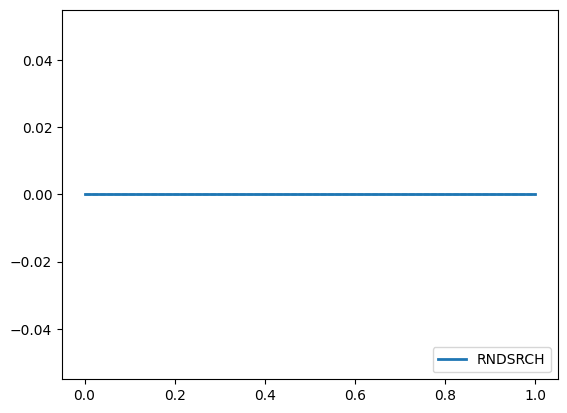
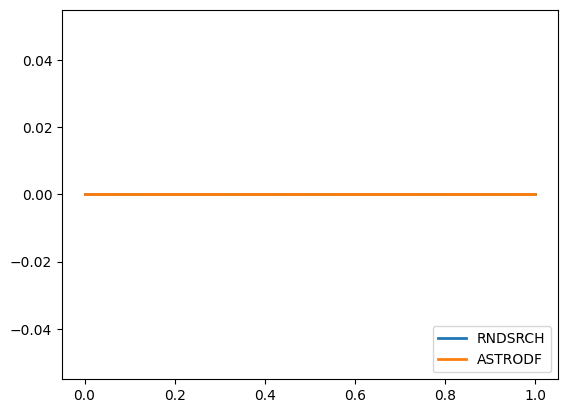
added ability to plot seperately

Changed region(s): [[0.1499, 0.4649, 0.9594, 0.4939], [0.7496, 0.7845, 0.9594, 0.9007]]

diff --git a/simopt/wrapper_base.py b/simopt/wrapper_base.py
@@ -1194,6 +1194,7 @@ def plot_progress_curves(experiments, plot_type, beta=0.50, normalize=True, all_
     """
     # Check if problems are the same with the same x0 and x*.
     check_common_problem_and_reference(experiments)
+    file_list = []
     # Set up plot.
     n_experiments = len(experiments)
     if all_in_one:
@@ -1253,12 +1254,13 @@ def plot_progress_curves(experiments, plot_type, beta=0.50, normalize=True, all_
         plt.legend(handles=solver_curve_handles, labels=[experiment.solver.name for experiment in experiments], loc="upper right")
         if print_max_hw and plot_type != "all":
             report_max_halfwidth(curve_pairs=curve_pairs, normalize=normalize)
-        return save_plot(solver_name="SOLVER SET",
+        return [save_plot(solver_name="SOLVER SET",
                   problem_name=ref_experiment.problem.name,
                   plot_type=plot_type,
                   normalize=normalize
-                  )
+                  )]
     else:  # Plot separately.
+        
         for experiment in experiments:
             setup_plot(plot_type=plot_type,
                        solver_name=experiment.solver.name,
@@ -1303,11 +1305,12 @@ def plot_progress_curves(experiments, plot_type, beta=0.50, normalize=True, all_
                 plot_bootstrap_CIs(bs_CI_lb_curve, bs_CI_ub_curve)
                 if print_max_hw:
                     report_max_halfwidth(curve_pairs=[[bs_CI_lb_curve, bs_CI_ub_curve]], normalize=normalize)
-            return save_plot(solver_name=experiment.solver.name,
+            file_list.append(save_plot(solver_name=experiment.solver.name,
                       problem_name=experiment.problem.name,
                       plot_type=plot_type,
                       normalize=normalize
-                      )
+                      ))
+        return file_list
 
 
 def plot_solvability_cdfs(experiments, solve_tol=0.1, all_in_one=True, plot_CIs=True, print_max_hw=True):
@@ -1327,6 +1330,7 @@ def plot_solvability_cdfs(experiments, solve_tol=0.1, all_in_one=True, plot_CIs=
         print caption with max half-width
     """
     # Check if problems are the same with the same x0 and x*.
+    file_list = []
     check_common_problem_and_reference(experiments)
     # Set up plot.
     n_experiments = len(experiments)
@@ -1362,12 +1366,12 @@ def plot_solvability_cdfs(experiments, solve_tol=0.1, all_in_one=True, plot_CIs=
         plt.legend(handles=solver_curve_handles, labels=[experiment.solver.name for experiment in experiments], loc="lower right")
         if print_max_hw:
             report_max_halfwidth(curve_pairs=curve_pairs, normalize=True)
-        return save_plot(solver_name="SOLVER SET",
+        return [save_plot(solver_name="SOLVER SET",
                   problem_name=ref_experiment.problem.name,
                   plot_type="solve_time_cdf",
                   normalize=True,
                   extra=solve_tol
-                  )
+                  )]
     else:  # Plot separately.
         for experiment in experiments:
             setup_plot(plot_type="solve_time_cdf",
@@ -1389,12 +1393,12 @@ def plot_solvability_cdfs(experiments, solve_tol=0.1, all_in_one=True, plot_CIs=
                 plot_bootstrap_CIs(bs_CI_lb_curve, bs_CI_ub_curve)
                 if print_max_hw:
                     report_max_halfwidth(curve_pairs=[[bs_CI_lb_curve, bs_CI_ub_curve]], normalize=True)
-            return save_plot(solver_name=experiment.solver.name,
+            file_list.append(save_plot(solver_name=experiment.solver.name,
                       problem_name=experiment.problem.name,
                       plot_type="solve_time_cdf",
                       normalize=True,
                       extra=solve_tol
-                      )
+                      ))
 
 
 def plot_area_scatterplots(experiments, all_in_one=True, plot_CIs=True, print_max_hw=True):
@@ -1465,12 +1469,13 @@ def plot_area_scatterplots(experiments, all_in_one=True, plot_CIs=True, print_ma
                     handle = plt.scatter(x=mean_estimator, y=std_dev_estimator, color=color_str, marker=marker_str)
             solver_curve_handles.append(handle)
         plt.legend(handles=solver_curve_handles, labels=solver_names, loc="upper right")
-        return save_plot(solver_name="SOLVER SET",
+        return [save_plot(solver_name="SOLVER SET",
                   problem_name="PROBLEM SET",
                   plot_type="area_scatterplot",
                   normalize=True
-                  )
+                  )]
     else:
+        file_list = []
         for solver_idx in range(n_solvers):
             ref_experiment = experiments[solver_idx][0]
             setup_plot(plot_type="area",
@@ -1513,11 +1518,11 @@ def plot_area_scatterplots(experiments, all_in_one=True, plot_CIs=True, print_ma
                                           )
                 else:
                     handle = plt.scatter(x=mean_estimator, y=std_dev_estimator, color="C0", marker="o")
-            return save_plot(solver_name=experiment.solver.name,
+            file_list.append(save_plot(solver_name=experiment.solver.name,
                       problem_name="PROBLEM SET",
                       plot_type="area_scatterplot",
                       normalize=True
-                      )
+                      ))
 
 
 def plot_solvability_profiles(experiments, plot_type, all_in_one=True, plot_CIs=True, print_max_hw=True, solve_tol=0.1, beta=0.5, ref_solver=None):
@@ -1612,20 +1617,20 @@ def plot_solvability_profiles(experiments, plot_type, all_in_one=True, plot_CIs=
 
         if plot_type == "cdf_solvability":
             plt.legend(handles=solver_curve_handles, labels=solver_names, loc="lower right")
-            return save_plot(solver_name="SOLVER SET",
+            return [save_plot(solver_name="SOLVER SET",
                       problem_name="PROBLEM SET",
                       plot_type=plot_type,
                       normalize=True,
                       extra=solve_tol
-                      )
+                      )]
         elif plot_type == "quantile_solvability":
             plt.legend(handles=solver_curve_handles, labels=solver_names, loc="lower right")
-            return save_plot(solver_name="SOLVER SET",
+            return [save_plot(solver_name="SOLVER SET",
                       problem_name="PROBLEM SET",
                       plot_type=plot_type,
                       normalize=True,
                       extra=[solve_tol, beta]
-                      )
+                      )]
         elif plot_type in {"diff_cdf_solvability", "diff_quantile_solvability"}:
             print(solver_names)
             non_ref_solvers = [solver_name for solver_name in solver_names if solver_name != ref_solver]
@@ -1651,20 +1656,21 @@ def plot_solvability_profiles(experiments, plot_type, all_in_one=True, plot_CIs=
             offset_labels = [f"{non_ref_solver} - {ref_solver}" for non_ref_solver in non_ref_solvers]
             plt.legend(handles=solver_curve_handles, labels=offset_labels, loc="lower right")
             if plot_type == "diff_cdf_solvability":
-                return save_plot(solver_name="SOLVER SET",
+                return [save_plot(solver_name="SOLVER SET",
                           problem_name="PROBLEM SET",
                           plot_type=plot_type,
                           normalize=True,
                           extra=solve_tol
-                          )
+                          )]
             elif plot_type == "diff_quantile_solvability":
-                return save_plot(solver_name="SOLVER SET",
+                return [save_plot(solver_name="SOLVER SET",
                           problem_name="PROBLEM SET",
                           plot_type=plot_type,
                           normalize=True,
                           extra=[solve_tol, beta]
-                          )
+                          )]
     else:
+        file_list = []
         solver_names = [solver_experiments[0].solver.name for solver_experiments in experiments]
         solver_curves = []
         for solver_idx in range(n_solvers):
@@ -1684,18 +1690,18 @@ def plot_solvability_profiles(experiments, plot_type, all_in_one=True, plot_CIs=
             if plot_type in {"cdf_solvability", "quantile_solvability"}:
                 # Set up plot.
                 if plot_type == "cdf_solvability":
-                    return setup_plot(plot_type=plot_type,
+                    file_list.append(setup_plot(plot_type=plot_type,
                                solver_name=experiments[solver_idx][0].solver.name,
                                problem_name="PROBLEM SET",
                                solve_tol=solve_tol
-                               )
+                               ))
                 elif plot_type == "quantile_solvability":
-                    return setup_plot(plot_type=plot_type,
+                    file_list.append(setup_plot(plot_type=plot_type,
                                solver_name=experiments[solver_idx][0].solver.name,
                                problem_name="PROBLEM SET",
                                beta=beta,
                                solve_tol=solve_tol
-                               )
+                               ))
                 handle = solver_curve.plot()
                 if plot_CIs:
                     # Note: "experiments" needs to be a list of list of Experiments.
@@ -1709,37 +1715,37 @@ def plot_solvability_profiles(experiments, plot_type, all_in_one=True, plot_CIs=
                                                                          )
                     plot_bootstrap_CIs(bs_CI_lb_curve, bs_CI_ub_curve)
                 if plot_type == "cdf_solvability":
-                    return save_plot(solver_name=experiments[solver_idx][0].solver.name,
+                    file_list.append(save_plot(solver_name=experiments[solver_idx][0].solver.name,
                               problem_name="PROBLEM SET",
                               plot_type=plot_type,
                               normalize=True,
                               extra=solve_tol
-                              )
+                              ))
                 elif plot_type == "quantile_solvability":
-                    return save_plot(solver_name=experiments[solver_idx][0].solver.name,
+                    file_list.append(save_plot(solver_name=experiments[solver_idx][0].solver.name,
                               problem_name="PROBLEM SET",
                               plot_type=plot_type,
                               normalize=True,
                               extra=[solve_tol, beta]
-                              )
+                              ))
         if plot_type in {"diff_cdf_solvability", "diff_quantile_solvability"}:
             non_ref_solvers = [solver_name for solver_name in solver_names if solver_name != ref_solver]
             ref_solver_idx = solver_names.index(ref_solver)
             for solver_idx in range(n_solvers):
                 if solver_idx is not ref_solver_idx:
                     if plot_type == "diff_cdf_solvability":
-                        return setup_plot(plot_type=plot_type,
+                        file_list.append(setup_plot(plot_type=plot_type,
                                    solver_name=experiments[solver_idx][0].solver.name,
                                    problem_name="PROBLEM SET",
                                    solve_tol=solve_tol
-                                   )
+                                   ))
                     elif plot_type == "diff_quantile_solvability":
-                        return setup_plot(plot_type=plot_type,
+                        file_list.append(setup_plot(plot_type=plot_type,
                                    solver_name=experiments[solver_idx][0].solver.name,
                                    problem_name="PROBLEM SET",
                                    beta=beta,
                                    solve_tol=solve_tol
-                                   )
+                                   ))
                     diff_solver_curve = difference_of_curves(solver_curves[solver_idx], solver_curves[ref_solver_idx])
                     handle = diff_solver_curve.plot()
                     if plot_CIs:
@@ -1754,19 +1760,20 @@ def plot_solvability_profiles(experiments, plot_type, all_in_one=True, plot_CIs=
                                                                              )
                         plot_bootstrap_CIs(bs_CI_lb_curve, bs_CI_ub_curve)
                     if plot_type == "diff_cdf_solvability":
-                        return save_plot(solver_name=experiments[solver_idx][0].solver.name,
+                        file_list.append(save_plot(solver_name=experiments[solver_idx][0].solver.name,
                                   problem_name="PROBLEM SET",
                                   plot_type=plot_type,
                                   normalize=True,
                                   extra=solve_tol
-                                  )
+                                  ))
                     elif plot_type == "diff_quantile_solvability":
-                        return save_plot(solver_name=experiments[solver_idx][0].solver.name,
+                        file_list.append(save_plot(solver_name=experiments[solver_idx][0].solver.name,
                                   problem_name="PROBLEM SET",
                                   plot_type=plot_type,
                                   normalize=True,
                                   extra=[solve_tol, beta]
-                                  )
+                                  ))
+    return file_list           
 
 
 def setup_plot(plot_type, solver_name="SOLVER SET", problem_name="PROBLEM SET", normalize=True, budget=None, beta=None, solve_tol=None):

diff --git a/simopt/GUI.py b/simopt/GUI.py
@@ -2256,7 +2256,7 @@ class Plot_Window():
                 print(self.solver_menu.get(i))
                   
         def add_plot(self):
-            place = self.num_plots + 1
+            
 
             solverList = ""
             self.solvers = []
@@ -2282,14 +2282,8 @@ class Plot_Window():
             
             i = len(self.plot_type_list)-1
             exp = self.plot_exp_list[len(self.plot_exp_list)-1]
-            
-            print("solvers", self.solvers)
-            print("probs", probs)
-            print(exp)
-
             exp2 = [[e] for e in exp]
-            print(exp2)
-            
+          
 
             param_value_list = []
             for t in self.params:
@@ -2311,64 +2305,66 @@ class Plot_Window():
                 path_name = wrapper_base.plot_progress_curves(exp,"quantile", plot_CIs=ci, all_in_one=param_value_list[1], print_max_hw=ci, beta=param_value_list[2],normalize=param_value_list[3])
             elif self.plot_type_list[i] == "Solve time cdf":
                 path_name = wrapper_base.plot_solvability_cdfs(exp, plot_CIs=ci, print_max_hw=ci, solve_tol=param_value_list[2])
-            
             elif self.plot_type_list[i] == "Scatter Plot":
-                path_name = wrapper_base.plot_area_scatterplots(exp2, plot_CIs=ci, print_max_hw=ci)
-            
+                path_name = wrapper_base.plot_area_scatterplots(exp2, plot_CIs=ci, print_max_hw=ci)           
             elif self.plot_type_list[i] == "cdf Solvability":
-                path_name = wrapper_base.plot_solvability_profiles(exp2, "cdf_solvability", plot_CIs=ci, print_max_hw=ci, solve_tol=param_value_list[2],ref_solver=param_value_list[3])
-            
+                path_name = wrapper_base.plot_solvability_profiles(exp2, "cdf_solvability", plot_CIs=ci, print_max_hw=ci, solve_tol=param_value_list[2],ref_solver=param_value_list[3])            
             elif self.plot_type_list[i] == "Quantile Solvability":
-                path_name = wrapper_base.plot_solvability_profiles(exp2, "quantile_solvability", plot_CIs=ci, print_max_hw=ci, solve_tol=param_value_list[2],beta=param_value_list[3],ref_solver=param_value_list[4])
-            
+                path_name = wrapper_base.plot_solvability_profiles(exp2, "quantile_solvability", plot_CIs=ci, print_max_hw=ci, solve_tol=param_value_list[2],beta=param_value_list[3],ref_solver=param_value_list[4])        
             elif self.plot_type_list[i] == "cdf Difference Plot":
-                path_name = wrapper_base.plot_solvability_profiles(exp2, "diff_cdf_solvability", plot_CIs=ci,print_max_hw=ci,solve_tol=param_value_list[2],ref_solver=param_value_list[3])
-            
+                path_name = wrapper_base.plot_solvability_profiles(exp2, "diff_cdf_solvability", plot_CIs=ci,print_max_hw=ci,solve_tol=param_value_list[2],ref_solver=param_value_list[3])            
             elif self.plot_type_list[i] == "Quanitle Difference Plot":
-                path_name = wrapper_base.plot_solvability_profiles(exp2, "diff_quantile_solvability", plot_CIs=ci,print_max_hw=ci,solve_tol=param_value_list[2],beta=param_value_list[3],ref_solver=param_value_list[4])
-            
+                path_name = wrapper_base.plot_solvability_profiles(exp2, "diff_quantile_solvability", plot_CIs=ci,print_max_hw=ci,solve_tol=param_value_list[2],beta=param_value_list[3],ref_solver=param_value_list[4])           
             else:
                 print(self.plot_type_list[i])
 
             self.all_path_names.append(path_name)
+            print(path_name)
 
-            self.problem_button_added = tk.Label(master=self.tab_one,
-                                                    text=problemList,
-                                                    font = "Calibri 10",
-                                                    justify="center")
-            self.problem_button_added.grid(row=place, column=0, sticky='nsew', padx=5, pady=3)
+            for i,new_plot in enumerate(path_name):
+                place = self.num_plots + 1
+                if len(path_name) == 1:
+                    prob_text = solverList
+                else:
+                    prob_text = self.solver_menu.get(i) 
 
-            self.solver_button_added = tk.Label(master=self.tab_one,
-                                                    text=solverList,
-                                                    font = "Calibri 10",
-                                                    justify="center")
-            self.solver_button_added.grid(row=place, column=1, sticky='nsew', padx=5, pady=3)
+                self.problem_button_added = tk.Label(master=self.tab_one,
+                                                        text=problemList,
+                                                        font = "Calibri 10",
+                                                        justify="center")
+                self.problem_button_added.grid(row=place, column=0, sticky='nsew', padx=5, pady=3)
 
-            self.plot_type_button_added = tk.Label(master=self.tab_one,
-                                                    text=plotType,
-                                                    font = "Calibri 10",
-                                                    justify="center")
-            self.plot_type_button_added.grid(row=place, column=2, sticky='nsew', padx=5, pady=3)
-           
+                self.solver_button_added = tk.Label(master=self.tab_one,
+                                                        text=prob_text,
+                                                        font = "Calibri 10",
+                                                        justify="center")
+                self.solver_button_added.grid(row=place, column=1, sticky='nsew', padx=5, pady=3)
 
-            self.clear_plot = tk.Button(master=self.tab_one,
-                                                    text="Clear",
-                                                    font = "Calibri 10",
-                                                    justify="center",
-                                                    command=partial(self.clear_row, place-1))
-            self.clear_plot.grid(row=place, column=4, sticky='nsew', padx=5, pady=3)
-            
-            self.view_plot = tk.Button(master=self.tab_one,
-                                                    text="View Plot",
-                                                    font = "Calibri 10",
-                                                    justify="center",
-                                                    command=partial(self.view_one_pot, path_name))
-            self.view_plot.grid(row=place, column=5, sticky='nsew', padx=5, pady=3)
-            # self.view_plot.pack()
-            self.changeOnHover(self.view_plot, "red", "yellow")
+                self.plot_type_button_added = tk.Label(master=self.tab_one,
+                                                        text=plotType,
+                                                        font = "Calibri 10",
+                                                        justify="center")
+                self.plot_type_button_added.grid(row=place, column=2, sticky='nsew', padx=5, pady=3)
             
 
-            self.num_plots += 1
+                self.clear_plot = tk.Button(master=self.tab_one,
+                                                        text="Clear",
+                                                        font = "Calibri 10",
+                                                        justify="center",
+                                                        command=partial(self.clear_row, place-1))
+                self.clear_plot.grid(row=place, column=4, sticky='nsew', padx=5, pady=3)
+                
+                self.view_plot = tk.Button(master=self.tab_one,
+                                                        text="View Plot",
+                                                        font = "Calibri 10",
+                                                        justify="center",
+                                                        command=partial(self.view_one_pot, new_plot))
+                self.view_plot.grid(row=place, column=5, sticky='nsew', padx=5, pady=3)
+                # self.view_plot.pack()
+                self.changeOnHover(self.view_plot, "red", "yellow")
+                
+
+                self.num_plots += 1
 
         def changeOnHover(self, button, colorOnHover, colorOnLeave):
             # adjusting backgroung of the widget
